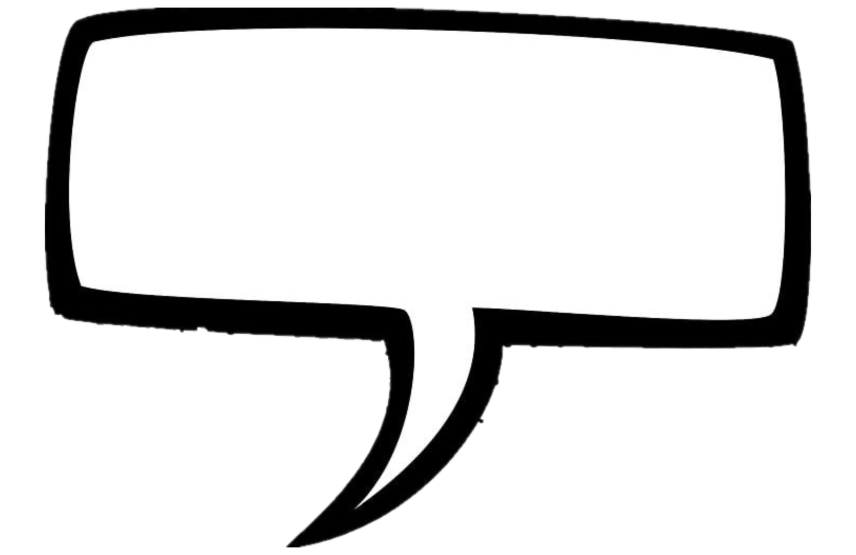
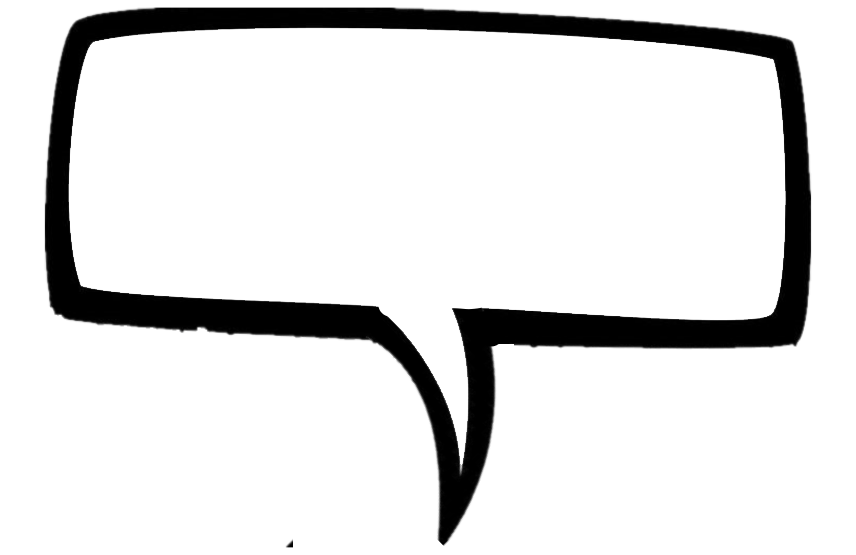
-added some graphics to contact page -modified layout.scss

Changed region(s): [[0.3341, 0.5514, 0.5771, 1.0], [0.5164, 0.5514, 0.6075, 0.7045]]

diff --git a/src/components/Template/Pages/Contact/Contact.scss b/src/components/Template/Pages/Contact/Contact.scss
@@ -1,5 +1,5 @@
 .contact{
-    width:90%;
+    width:100%;
     height:100vh;
     display:flex;
     flex-direction:row;
@@ -13,13 +13,14 @@
 &_image_container{
     justify-self:center;
     align-items:center;
-    width:25%;
+    margin-left:2%;
+    width:20%;
 }
 &_form{
     display:flex;
     width:60%;
     flex-direction:column;
-    align-items:flex-start;
+    align-items:center;
 }
 }
 ::-webkit-input-placeholder {
@@ -32,16 +33,25 @@ img{
     height:auto;
 }
 .social{
-    width:15%;
-    height:85%;
+    border:4px black solid;
+    width:20%;
+    height:50%;
+    &_div{
+        text-align:center;
+        font-size:35px;
+        height:170px;
+        background-image: url(../Projects/empty_baloon.png);
+        background-size: cover;
+    }
 }
+
 
 input{
     background-color:#ffffff;
-    width:40%;
+    width:60%;
     margin:10px;
     font-family:"Oswald";
-    font-size:20px;
+    font-size:40px;
     height:50px;
     padding:5px;
     border:5px solid black;
@@ -50,7 +60,7 @@ input{
 textarea{
     background-color:#ffffff;
     width:75%;
-    height:100px;
+    height:140px;
     margin:10px;
     font-family:"Oswald";
     font-size:20px;
@@ -58,26 +68,27 @@ textarea{
     border:5px solid black;
     border-radius:10px;
 }
-.linkedin{
+/*.linkedin{
     position:relative;
-    top:150px;
-    left:140px;
+    top:50px;
+    left:40px;
 }
 
 .git{
     position:relative;
-    top:140px;
-    left:190px;
+    top:40px;
+    left:90px;
 }
 .insta{
     position:relative;
-    top:170px;
-    left:150px;
-}
+    top:100px;
+    left:100px;
+}*/
 button{
     width:100px;
     height:45px;
     font-family:'Erica One';
+    font-size:20px;
     border:4px black solid;
     background-color:#ff0000;
 }
@@ -91,7 +102,7 @@ button{
     align-items: center;
 }
 &_image_container{
-    margin-top:20vh;
+    margin-top:15vh;
     width:50%;
     height:auto;
 }
@@ -103,9 +114,11 @@ button{
 }
 input{
     width:60%;
+    height:35px;
 }
 textarea{
     width:85%;
+
 }
 .social{
     display:flex;

diff --git a/src/components/Template/Pages/Contact/Contact.js b/src/components/Template/Pages/Contact/Contact.js
@@ -42,9 +42,10 @@ const Contact = () =>{
                 <input name="phone" type="number" placeholder="leave a phone number..."/>
                 <input name="mail" type="email" placeholder="...or an email..." required/>
                 <textarea name="message" type="text" placeholder="...and write something to Frenz" required/> 
-                <button type="submit">Send!</button>
+                <button id="submit_form" type="submit">Send!</button>
             </form>
         <div className="social">
+            <div className="social_div">Socialize!</div>
             <a href="https://instagram.com"><div className="insta animate__animated animate__bounceInDown  animate__delay-1s">{instaIcon}</div></a>
             <a href="https://github.com/Frenzarectah"><div className="git animate__animated animate__bounceInDown  animate__delay-3s">{gitIcon}</div></a>
             <a href="https://www.linkedin.com/in/francesco-sorrentino-946981105/"><div className="linkedin animate__animated animate__bounceInDown  animate__delay-2s">{linkedIcon}</div></a>

diff --git a/src/components/Template/Layout/Layout.scss b/src/components/Template/Layout/Layout.scss
@@ -46,5 +46,8 @@
 @media only screen and (max-width: 600px) {
 .main_container button{
     display:none;
+}
+button#submit_form{
+    display:block;
 }  
 }
